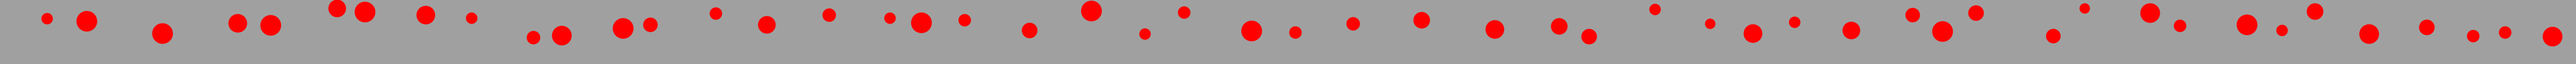
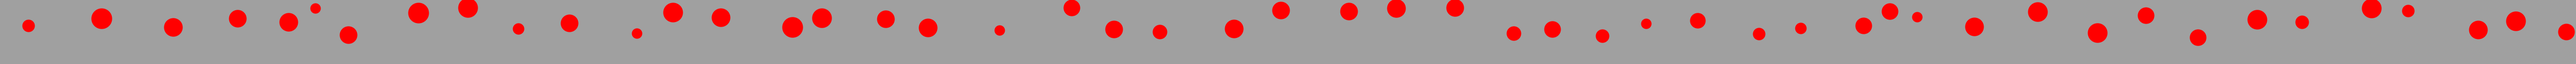
last update. Simulator 2.1 to include more realistic datasets for water and air voids. Updated with all current results and logit function scaling

Changed region(s): [[0.1872, 0.0, 1.0, 0.72], [0.0, 0.0, 0.1872, 0.672], [0.624, 0.072, 0.6552, 0.216]]

diff --git a/MATLAB/generate_environment.m b/MATLAB/generate_environment.m
@@ -122,39 +122,39 @@ x = imread('template.png');
 % WATER VOID SPECIFICATIONS 
 
 % Starting x distance for randomization
-current_distance = 0;
-water_min_spacing = 100;
-water_max_spacing = 500;
-
-
-while current_distance <= 10100
-    water_x = randi([current_distance + water_min_spacing, current_distance + water_max_spacing]); % in m /1000;
-    water_depth_mm = randi([250-150,250-80]);
-    water_size_mm = randi([10,30])/2; % Radius 
-       
-    % Update current distance now to allow for rebar domain check
-    current_distance = water_x;
-    
-    % Gross but is a break to stop adding rebar once last one is added and
-    % is actually outside the domain 
-    
-    if current_distance > 10100
-        break;
-    end
-    
-    % Done before to allow conversion into m from mm
-    x = insertShape(x, 'FilledCircle', [(current_distance-100)/2, (250-water_depth_mm)/2, water_size_mm*2],'Color','blue','Opacity', 1 );
-    
-    % Convert measurements to m. Notw rebar_x chosen so that current
-    % distance stays in mm. Lazy - rewrite plz
-    water_x = water_x/1000;
-    water_depth = water_depth_mm/1000;
-    water_size = water_size_mm/1000; 
-
-    generate_water = [water_x, water_depth, 0, water_x, water_depth, 0.002, water_size];
-    generate_water_string = fprintf(fileID,'#cylinder: %.3f %.3f %.3f %.3f %.3f %.3f %.3f water\n', generate_water);
-    
-end 
+% current_distance = 0;
+% water_min_spacing = 100;
+% water_max_spacing = 500;
+% 
+% 
+% while current_distance <= 10100
+%     water_x = randi([current_distance + water_min_spacing, current_distance + water_max_spacing]); % in m /1000;
+%     water_depth_mm = randi([250-150,250-80]);
+%     water_size_mm = randi([10,30])/2; % Radius 
+%        
+%     % Update current distance now to allow for rebar domain check
+%     current_distance = water_x;
+%     
+%     % Gross but is a break to stop adding rebar once last one is added and
+%     % is actually outside the domain 
+%     
+%     if current_distance > 10100
+%         break;
+%     end
+%     
+%     % Done before to allow conversion into m from mm
+%     x = insertShape(x, 'FilledCircle', [(current_distance-100)/2, (250-water_depth_mm)/2, water_size_mm*2],'Color','blue','Opacity', 1 );
+%     
+%     % Convert measurements to m. Notw rebar_x chosen so that current
+%     % distance stays in mm. Lazy - rewrite plz
+%     water_x = water_x/1000;
+%     water_depth = water_depth_mm/1000;
+%     water_size = water_size_mm/1000; 
+% 
+%     generate_water = [water_x, water_depth, 0, water_x, water_depth, 0.002, water_size];
+%     generate_water_string = fprintf(fileID,'#cylinder: %.3f %.3f %.3f %.3f %.3f %.3f %.3f water\n', generate_water);
+%     
+% end 
 
 %% Rebar - Randomly generate rebar according to spec
 % REBAR SPECIFICATIONS

diff --git a/MATLAB/generate_image.m b/MATLAB/generate_image.m
@@ -8,20 +8,20 @@
 function [] = generate_image(numberID)
 
 %% Load gpr data and ground truth image via ID
-image_filename = sprintf('./permittivity_map_images/scaled/gt%d.png', numberID);
+image_filename = sprintf('./permittivity_map_images/logit_scaled/gt%d.png', numberID);
 
 % comment out line below to load old version with text file output
-%data_filename = sprintf('./gprMax_output/sim%d.txt', numberID);
-data_filename = sprintf('./gprMax_output/sim%d_merged.out', numberID);
+data_filename = sprintf('./gprMax_output/sim%d.txt', numberID);
+%data_filename = sprintf('./gprMax_output/sim%d_merged.out', numberID);
 
 x = imread(image_filename);
 % comment out line below to load old version with text file output
-%data = importfile(data_filename);
+data = importfile(data_filename);
 
 
 % Load HDF5 file
-data = hdf5read(data_filename, 'rxs/rx1/Ez');
-data = double(data)';
+% data = hdf5read(data_filename, 'rxs/rx1/Ez');
+% data = double(data)';
 
 %x = repmat(x, [1 1 3]);
  
